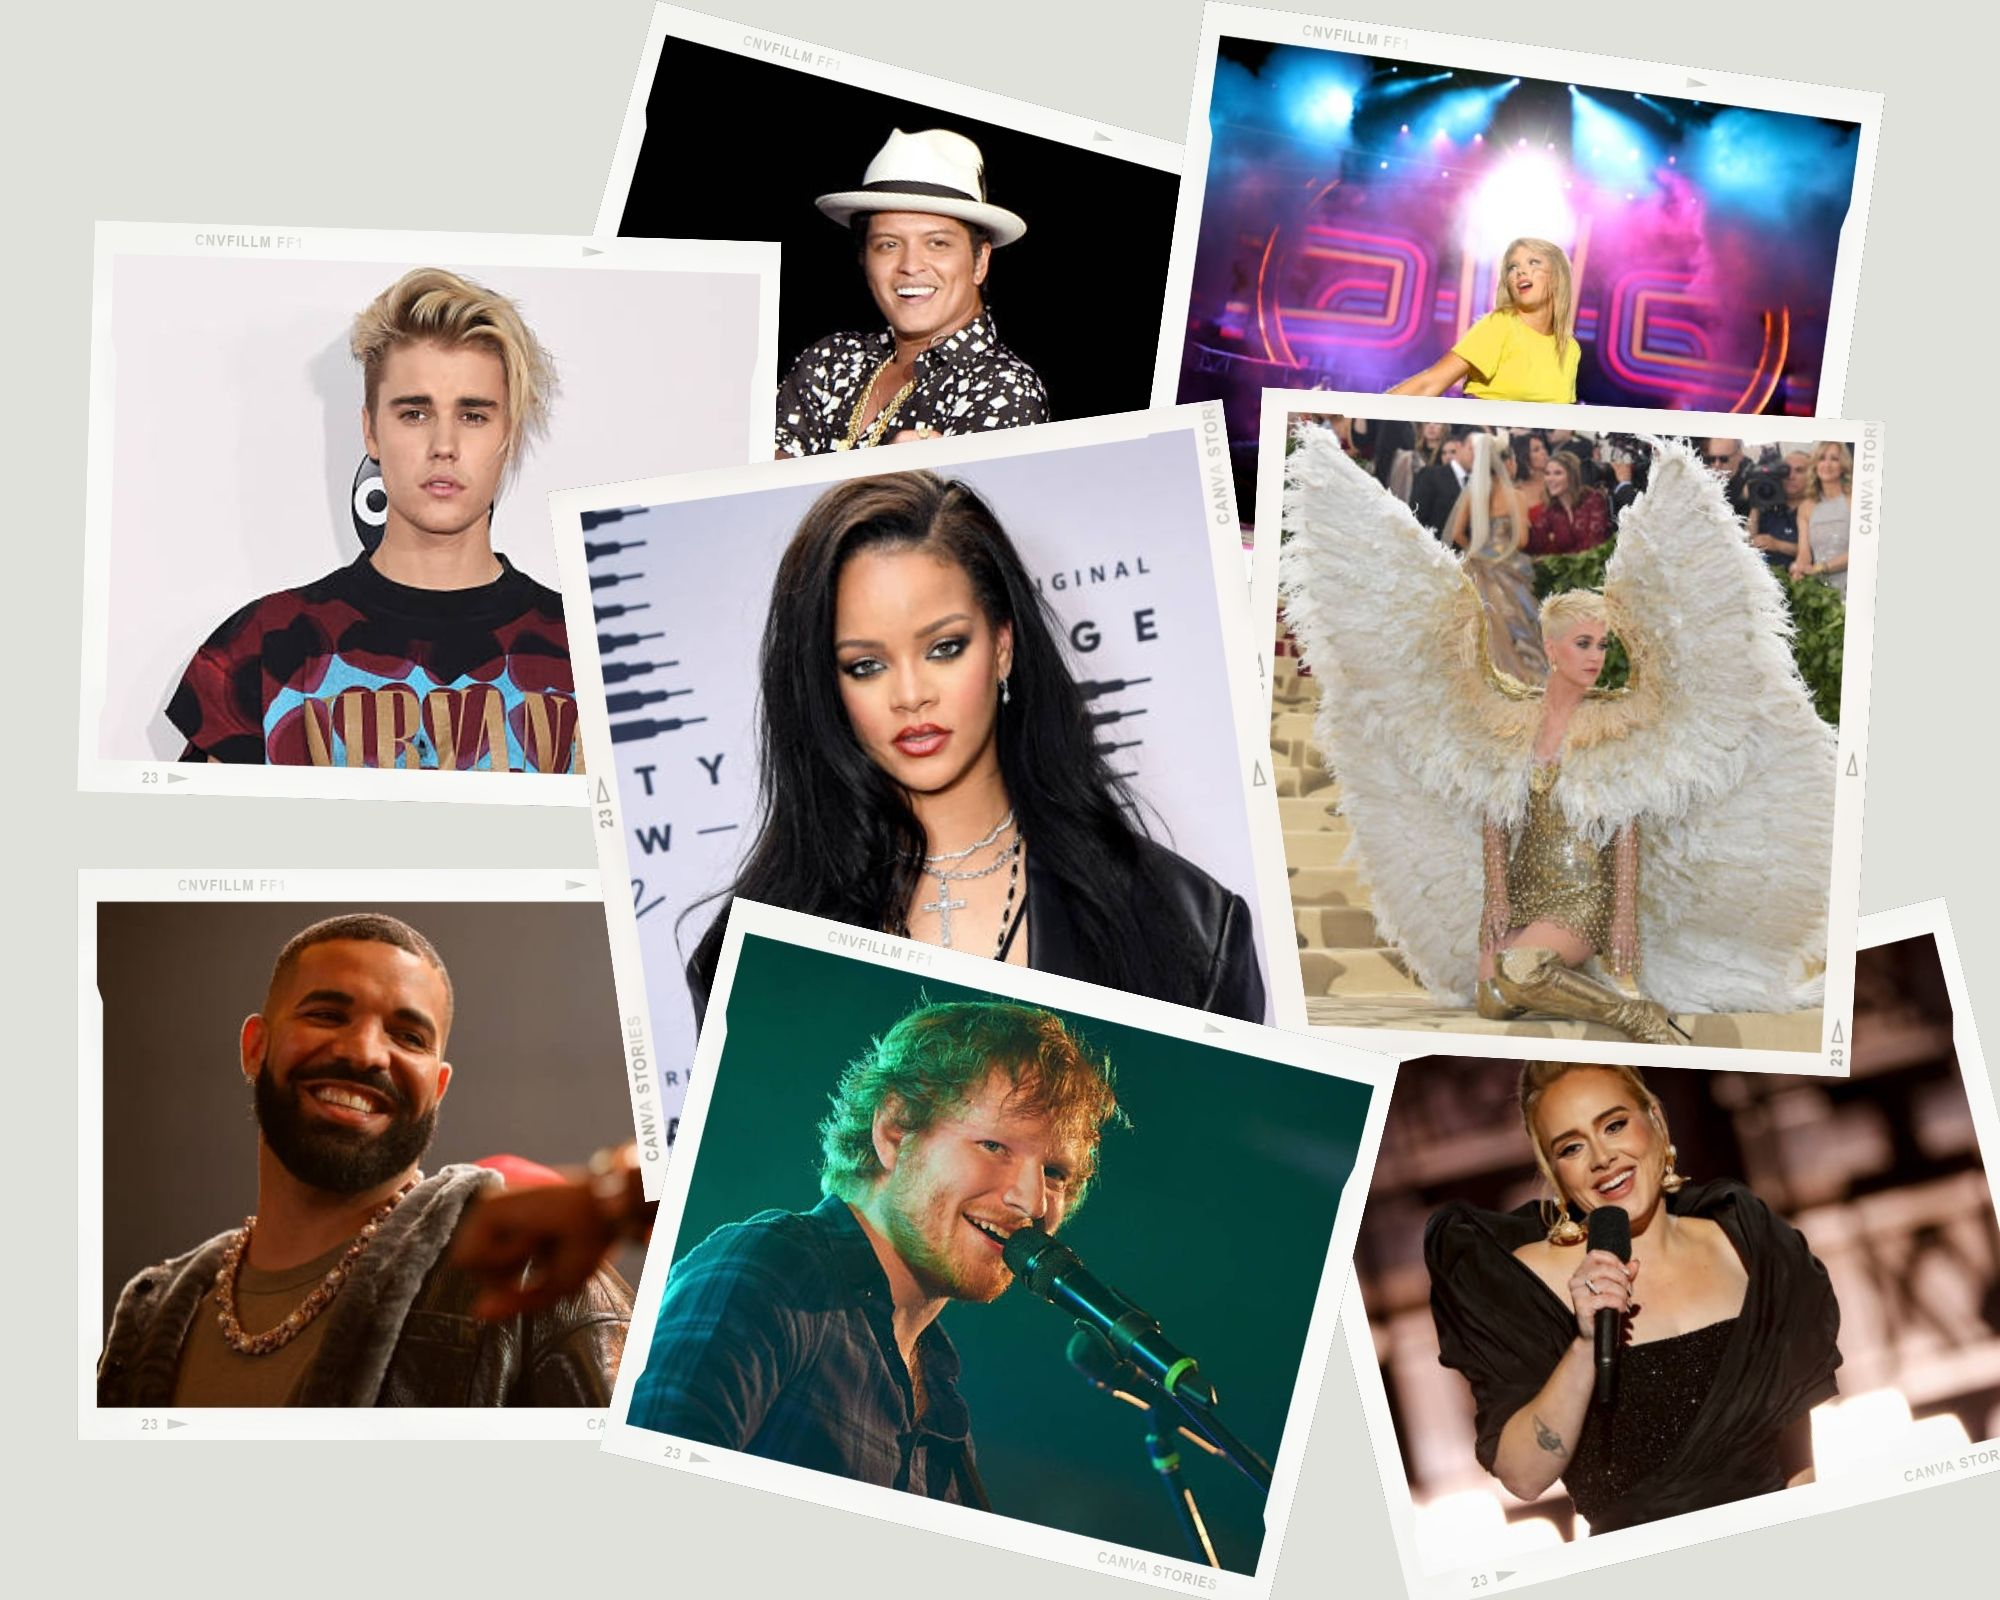
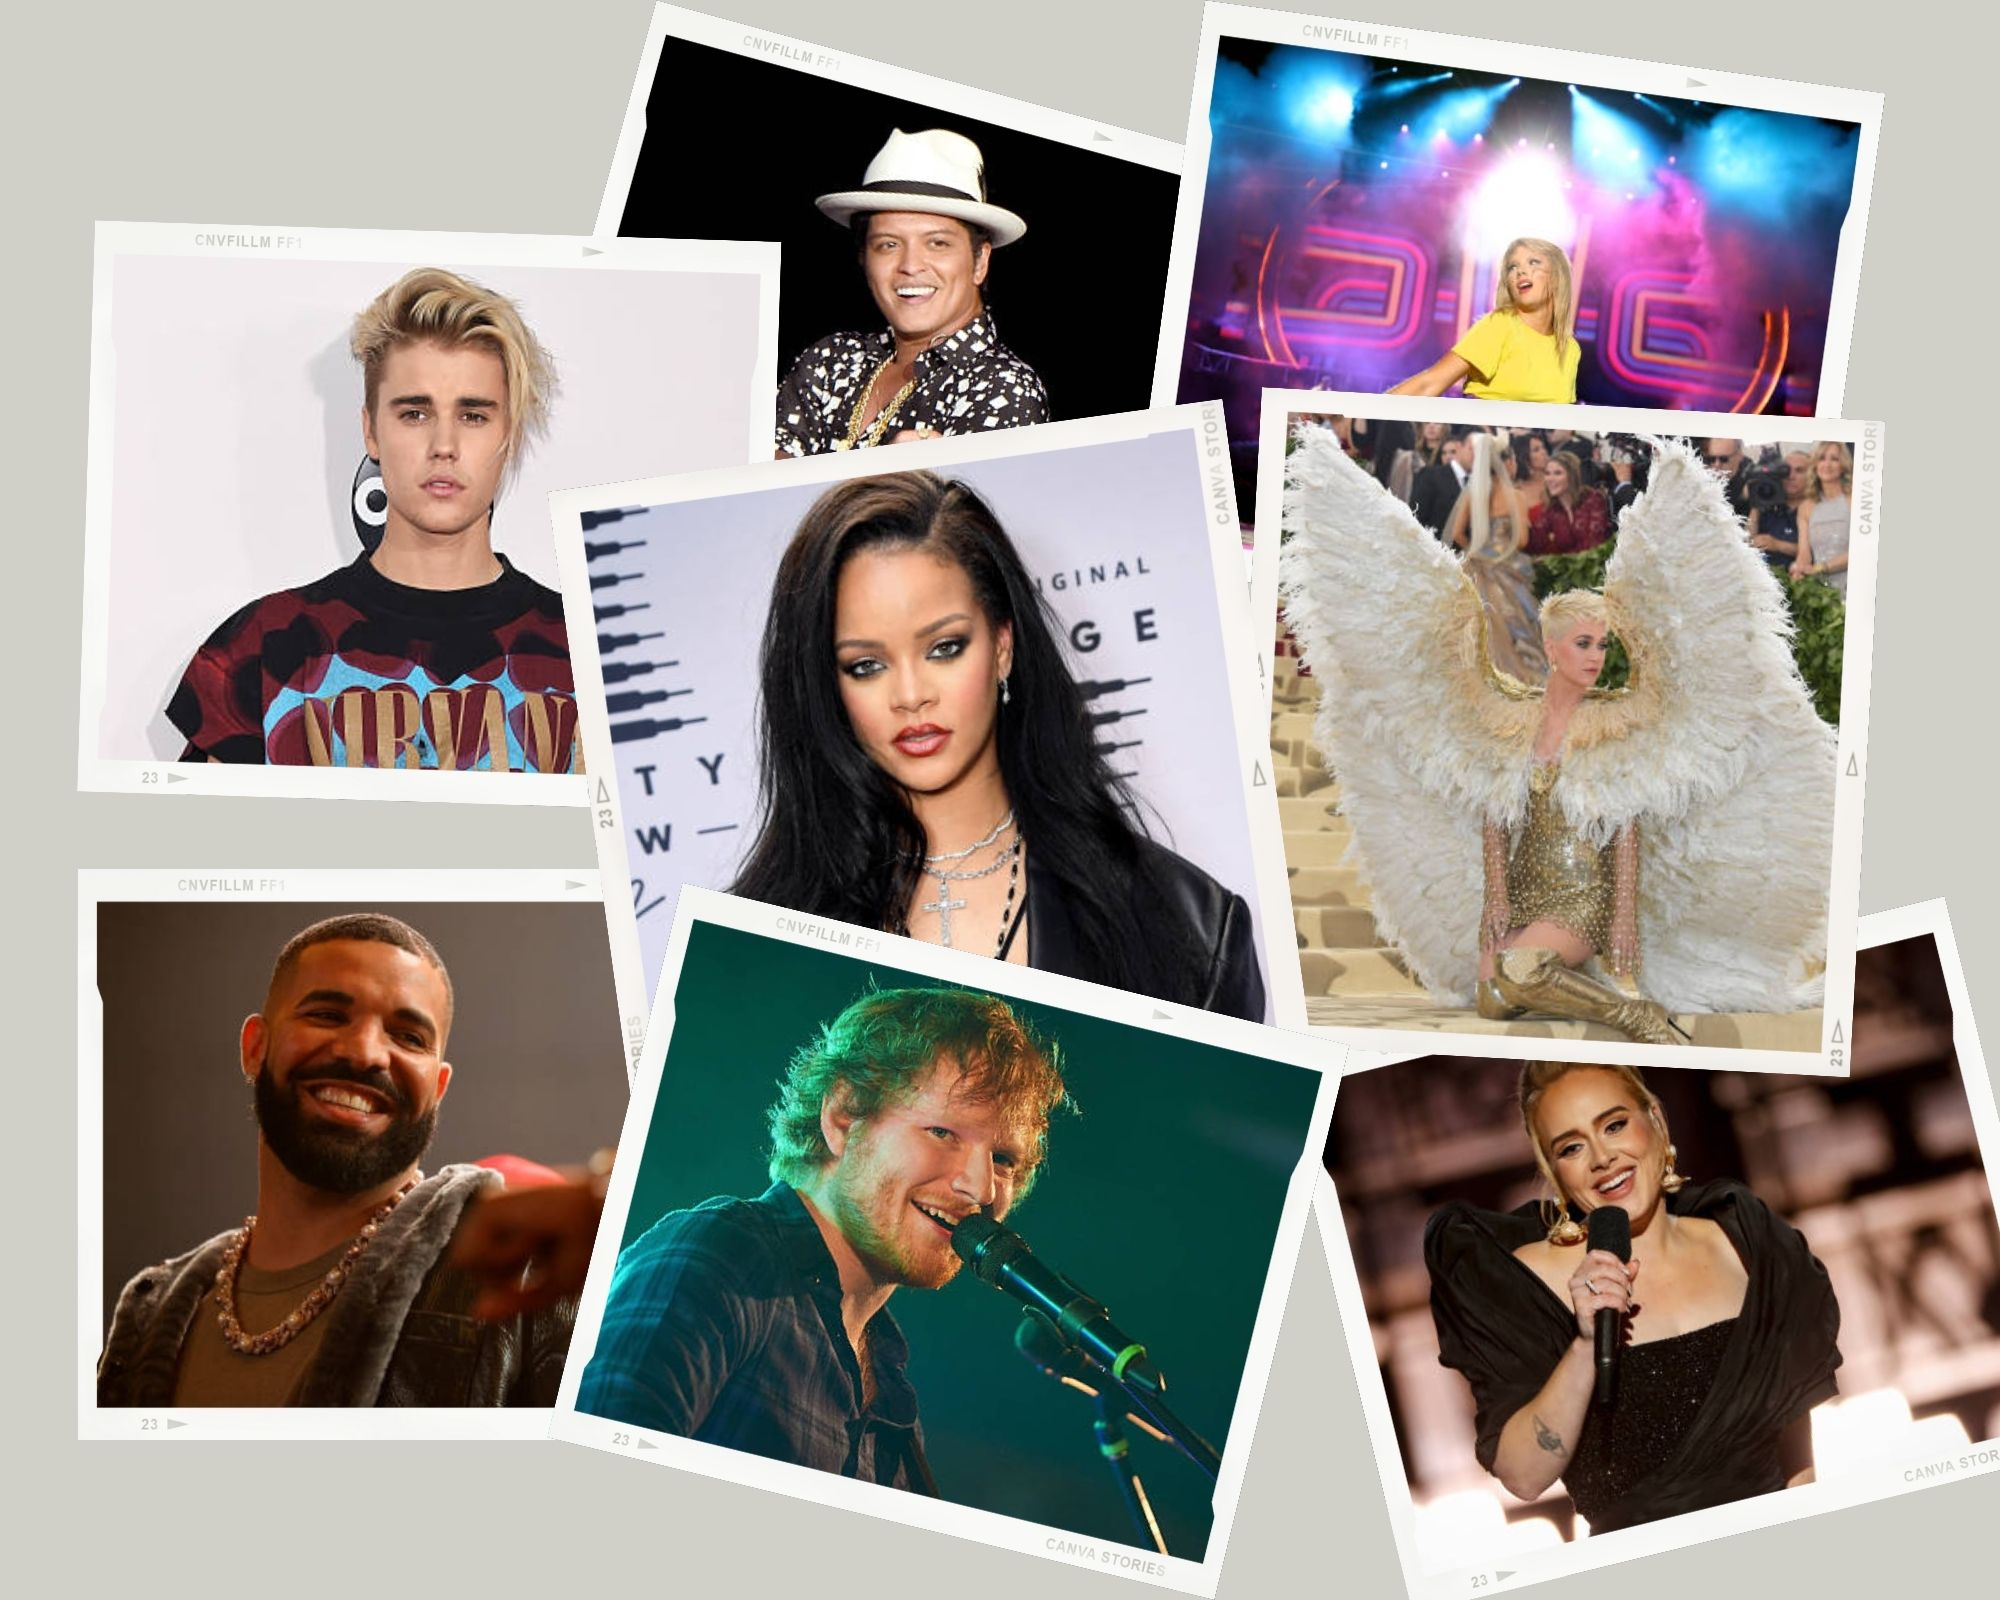
collage of pictures and upgraded search box

Changed region(s): [[0.279, 0.5312, 0.713, 1.0]]

diff --git a/assets/css/style.css b/assets/css/style.css
@@ -21,15 +21,15 @@ h2 {
 /* CARDS */
 .card {
     margin: 0 0 0 0;
-    border: 3px solid rgb(171,90,31);
+    background:  rgb(171,90,31);
     background: linear-gradient(90deg, rgba(171,90,31,1) 0%, rgba(255,172,108,0.5914740896358543) 39%, rgba(168,168,167,0.5522584033613445) 100%);;
     border-radius: var(--border-radius);
   }
   
   .card-header {
     color: #ffffff;
-    background-color: rgb(171,90,31);
-    background-color: linear-gradient(90deg, rgba(171,90,31,1) 0%, rgba(255,172,108,0.5914740896358543) 39%, rgba(168,168,167,0.5522584033613445) 100%);
+    background: rgb(171,90,31);
+    background: linear-gradient(90deg, rgba(171,90,31,1) 0%, rgba(255,172,108,0.5914740896358543) 39%, rgba(168,168,167,0.5522584033613445) 100%);
     padding: 2.5%;
     border-radius: calc(.18rem - 1px) calc(.18rem - 1px) 0 0;
   }
@@ -81,10 +81,10 @@ h2 {
     color: rgb(171,90,31);
     font-weight: bold;
 }
-
+/* 
 .foot {
   background-image: url("../img/footer.png");
   background-size: cover;
   height: 150px;
-}
+} */
 

diff --git a/index.html b/index.html
@@ -60,9 +60,9 @@
 
 <div class="result-box column ml-1">
     <h2 class="result-title mt-3"><span id="result-search-term"></span></h2>
-    <div id="results-container" class="list-group columns is-multiline"></div>
-    <!-- <img id="collage" class id="collage" src="../project-01/assets/img/8ofthedecademiddle.jpg">
-     -->
+    <div id="results-container" class="list-group columns is-multiline">
+    <img id="collage" class id="collage" src="../project-01/assets/img/8ofthedecademiddle.jpg">
+    </div>
   </div>
 
 </div>
